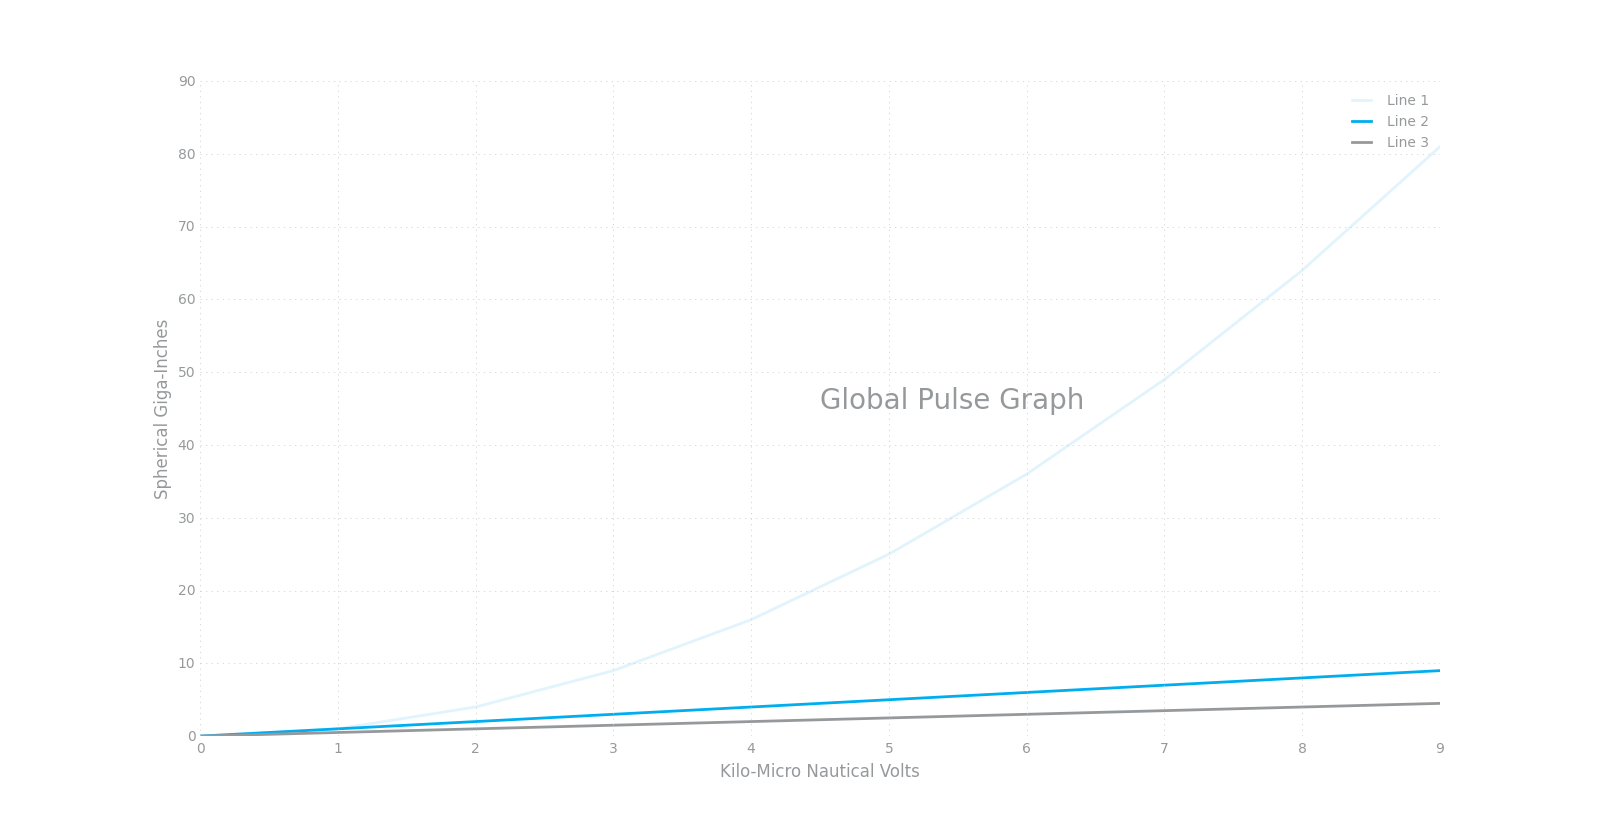
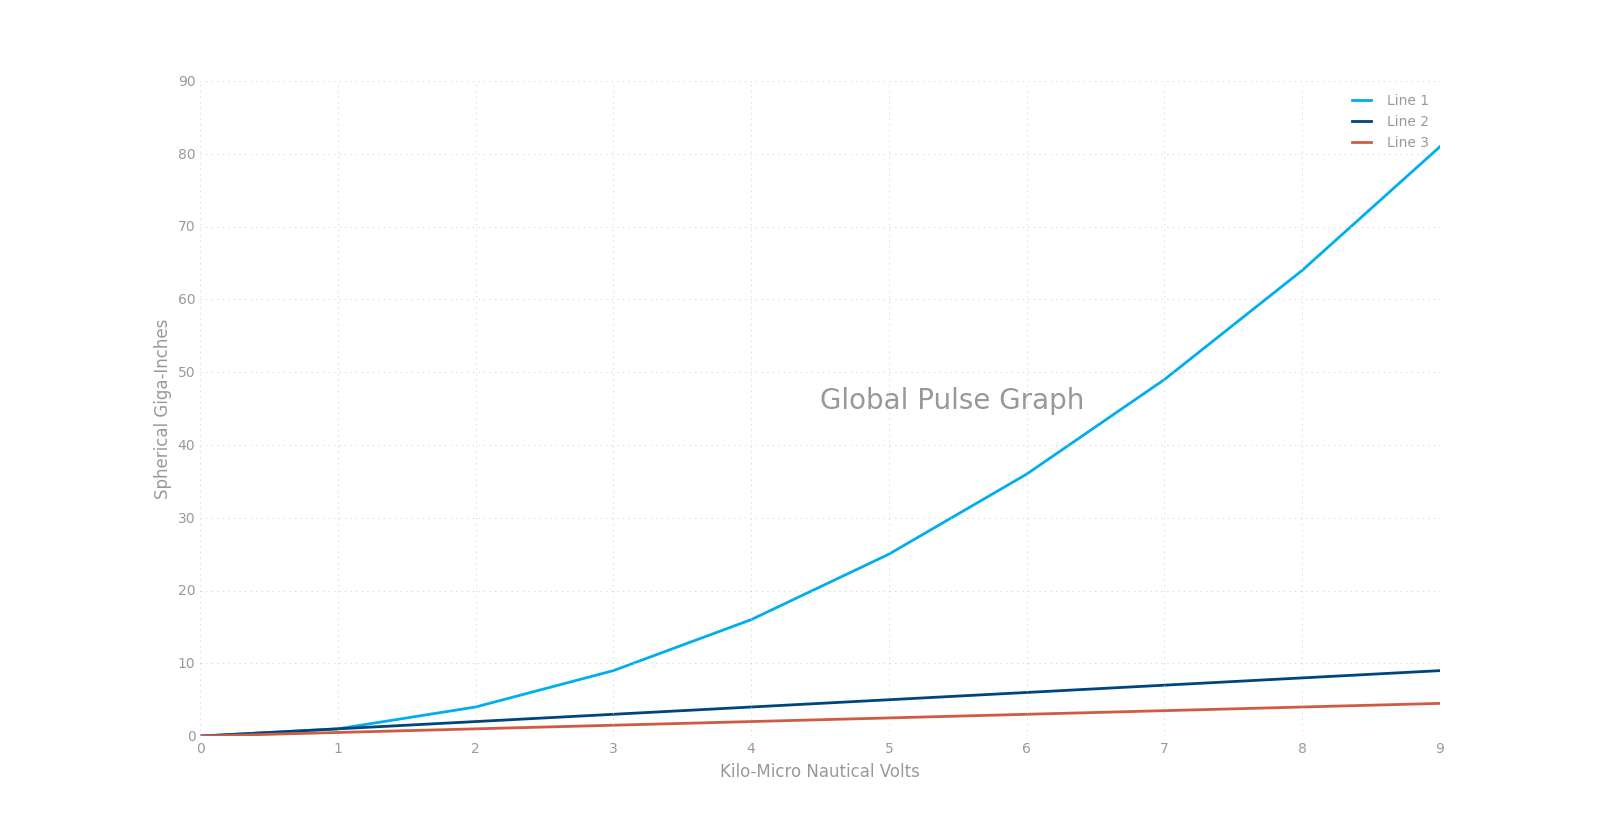
add auto-colour cycling

diff --git a/gp_colour_test.py b/gp_colour_test.py
@@ -3,9 +3,9 @@ import gp_colours as gpc
 
 gpc.setStyle()
 
-plt.plot([i*i for i in range(10)],gpc.gpLightBlue,label='Line 1')
-plt.plot([i for i in range(10)],gpc.gpBlue,label='Line 2')
-plt.plot([0.5*i for i in range(10)],gpc.gpLightGray,label='Line 3')
+plt.plot([i*i for i in range(10)],label='Line 1')
+plt.plot([i for i in range(10)],label='Line 2')
+plt.plot([0.5*i for i in range(10)],label='Line 3')
 plt.annotate('Global Pulse Graph',xy=(0.5,0.5),xycoords='axes fraction')
 plt.ylabel('Spherical Giga-Inches')
 plt.xlabel('Kilo-Micro Nautical Volts')

diff --git a/gp_colours.py b/gp_colours.py
@@ -8,6 +8,7 @@ gpPink='#f4d5e3'
 gpLightBlue='#e1f4fd'
 
 def setStyle():
+  mpl.rcParams['axes.color_cycle']=[gpBlue,gpDarkBlue,gpRed,gpLightGray,gpBrown,gpPink,gpLightBlue]
   mpl.rcParams['axes.edgecolor'] = gpLightGray
   mpl.rcParams['axes.linewidth'] = 0
   mpl.rcParams['lines.linewidth'] = 2
